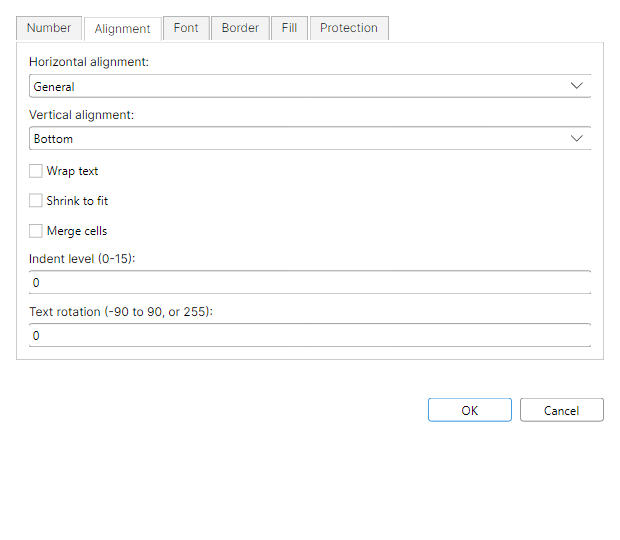
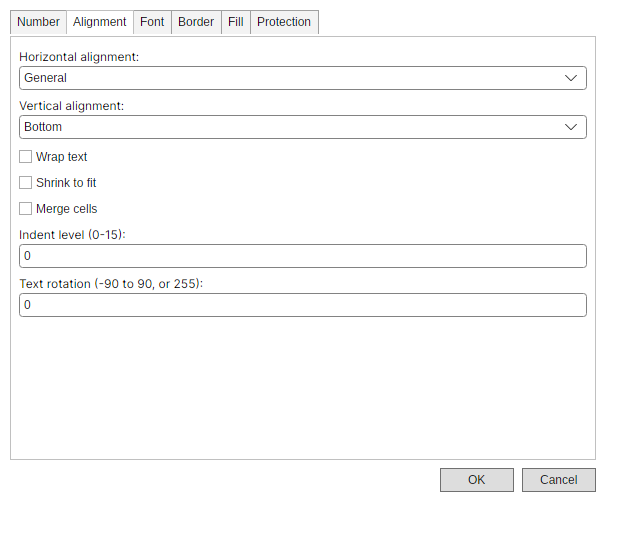
Align FreeX Avalonia Format Cells Alignment tab

diff --git a/src/FreeX.App.Avalonia/MainWindow.cs b/src/FreeX.App.Avalonia/MainWindow.cs
@@ -17372,12 +17372,12 @@ public sealed partial class MainWindow : Window, IFormulaPointModeWorkbookWindow
             "FormatCellsHorizontalAlignmentBox",
             CreateFormatCellsHorizontalAlignmentChoices(),
             currentHorizontalAlignment);
-        horizontalAlignmentBox.Width = 564;
+        horizontalAlignmentBox.HorizontalAlignment = AvaloniaHorizontalAlignment.Stretch;
         var verticalAlignmentBox = CreateFormatCellsComboBox(
             "FormatCellsVerticalAlignmentBox",
             CreateFormatCellsVerticalAlignmentChoices(),
             currentVerticalAlignment);
-        verticalAlignmentBox.Width = 564;
+        verticalAlignmentBox.HorizontalAlignment = AvaloniaHorizontalAlignment.Stretch;
         var wrapTextBox = CreateFormatCellsCheckBox(UiText.Get("FormatCells_WrapText"), "FormatCellsWrapTextBox", _session.IsSelectedRangeStartWrapText);
         var shrinkToFitBox = CreateFormatCellsCheckBox(UiText.Get("FormatCells_ShrinkToFit"), "FormatCellsShrinkToFitBox", currentShrinkToFit);
         var mergeCellsBox = CreateFormatCellsCheckBox(UiText.Get("FormatCells_MergeCells"), "FormatCellsMergeCellsBox", currentMergeCells);
@@ -17385,7 +17385,7 @@ public sealed partial class MainWindow : Window, IFormulaPointModeWorkbookWindow
         {
             Text = currentIndentLevel.ToString(CultureInfo.InvariantCulture),
             MinWidth = 100,
-            Width = 564,
+            HorizontalAlignment = AvaloniaHorizontalAlignment.Stretch,
         };
         AutomationProperties.SetName(indentLevelBox, "Indent level");
         AutomationProperties.SetAutomationId(indentLevelBox, "FormatCellsIndentLevelBox");
@@ -17395,7 +17395,7 @@ public sealed partial class MainWindow : Window, IFormulaPointModeWorkbookWindow
         {
             Text = currentTextRotation.ToString(CultureInfo.InvariantCulture),
             MinWidth = 100,
-            Width = 564,
+            HorizontalAlignment = AvaloniaHorizontalAlignment.Stretch,
         };
         AutomationProperties.SetName(textRotationBox, "Text rotation");
         AutomationProperties.SetAutomationId(textRotationBox, "FormatCellsTextRotationBox");
@@ -18177,23 +18177,59 @@ public sealed partial class MainWindow : Window, IFormulaPointModeWorkbookWindow
             UiText.Get("FormatCells_TabNumber"),
             "FormatCellsNumberTab",
             numberBodyGrid);
+        var alignmentBody = new StackPanel
+        {
+            Margin = new Thickness(FormatCellsDialogAlignmentLayout.ContentInset),
+            Spacing = 0,
+            Children =
+            {
+                CreateFormatCellsField(
+                    UiText.Get("FormatCells_HorizontalAlignment"),
+                    horizontalAlignmentBox,
+                    new Thickness(
+                        0,
+                        FormatCellsDialogAlignmentLayout.LabelTopMargin,
+                        0,
+                        FormatCellsDialogAlignmentLayout.LabelBottomMargin)),
+                CreateFormatCellsField(
+                    UiText.Get("FormatCells_VerticalAlignment"),
+                    verticalAlignmentBox,
+                    new Thickness(
+                        0,
+                        FormatCellsDialogAlignmentLayout.FollowupLabelTopMargin,
+                        0,
+                        FormatCellsDialogAlignmentLayout.LabelBottomMargin)),
+                CreateFormatCellsCheckBoxRow(
+                    wrapTextBox,
+                    FormatCellsDialogAlignmentLayout.CheckBoxTopMargin),
+                CreateFormatCellsCheckBoxRow(
+                    shrinkToFitBox,
+                    FormatCellsDialogAlignmentLayout.FollowupCheckBoxTopMargin),
+                CreateFormatCellsCheckBoxRow(
+                    mergeCellsBox,
+                    FormatCellsDialogAlignmentLayout.FollowupCheckBoxTopMargin),
+                CreateFormatCellsField(
+                    UiText.Get("FormatCells_IndentLevel015"),
+                    indentLevelBox,
+                    new Thickness(
+                        0,
+                        FormatCellsDialogAlignmentLayout.FollowupLabelTopMargin,
+                        0,
+                        FormatCellsDialogAlignmentLayout.LabelBottomMargin)),
+                CreateFormatCellsField(
+                    UiText.Get("FormatCells_TextRotation90To90Or255"),
+                    textRotationBox,
+                    new Thickness(
+                        0,
+                        FormatCellsDialogAlignmentLayout.FollowupLabelTopMargin,
+                        0,
+                        FormatCellsDialogAlignmentLayout.LabelBottomMargin)),
+            },
+        };
         var alignmentTab = CreateFormatCellsTab(
             UiText.Get("FormatCells_TabAlignment"),
             "FormatCellsAlignmentTab",
-            new StackPanel
-            {
-                Spacing = 10,
-                Children =
-                {
-                    CreateFormatCellsField(UiText.Get("FormatCells_HorizontalAlignment"), horizontalAlignmentBox),
-                    CreateFormatCellsField(UiText.Get("FormatCells_VerticalAlignment"), verticalAlignmentBox),
-                    wrapTextBox,
-                    shrinkToFitBox,
-                    mergeCellsBox,
-                    CreateFormatCellsField(UiText.Get("FormatCells_IndentLevel015"), indentLevelBox),
-                    CreateFormatCellsField(UiText.Get("FormatCells_TextRotation90To90Or255"), textRotationBox),
-                },
-            });
+            alignmentBody);
         // Font tab: Windows shows Font NAME + Size as selectable lists side by side. The
         // lists drive the existing name/size text boxes (kept below for free entry + as the
         // value sink the result reads), preserving the FontName/FontSize wiring.
@@ -18705,6 +18741,30 @@ public sealed partial class MainWindow : Window, IFormulaPointModeWorkbookWindow
                 control,
             },
         };
+
+    private static StackPanel CreateFormatCellsField(
+        string label,
+        Control control,
+        Thickness labelMargin) =>
+        new()
+        {
+            Spacing = 0,
+            Children =
+            {
+                new TextBlock
+                {
+                    Text = StripDisplayMnemonic(label),
+                    Margin = labelMargin,
+                },
+                control,
+            },
+        };
+
+    private static CheckBox CreateFormatCellsCheckBoxRow(CheckBox checkBox, double topMargin)
+    {
+        checkBox.Margin = new Thickness(0, topMargin, 0, 0);
+        return checkBox;
+    }
 
     private static ComboBox CreateFormatCellsComboBox<T>(
         string automationId,

diff --git a/tests/FreeX.App.Avalonia.Tests/ParityCaptureTests.cs b/tests/FreeX.App.Avalonia.Tests/ParityCaptureTests.cs
@@ -487,6 +487,54 @@ public sealed class ParityCaptureTests
     }
 
     [Fact]
+    public async Task CaptureParitySurfaces_CapturesFormatCellsAlignmentTabWithoutRunningInteractionContract()
+    {
+        var outputDirectory = Path.Combine(
+            Path.GetTempPath(),
+            "freex-parity-capture-format-cells-alignment-" + Guid.NewGuid().ToString("N"));
+
+        try
+        {
+            await Session.Dispatch(async () =>
+            {
+                var window = new MainWindow([]);
+                window.Show();
+                window.Measure(new global::Avalonia.Size(1120, 720));
+                window.Arrange(new global::Avalonia.Rect(0, 0, 1120, 720));
+                window.UpdateLayout();
+
+                var results = await window.CaptureParitySurfacesAsync(
+                    outputDirectory,
+                    targetSurfaceId: "dialog.FormatCells.Alignment");
+
+                results.Should().HaveCount(7);
+                results.Should().OnlyContain(
+                    result => result.Captured,
+                    string.Join(Environment.NewLine, results.Select(result => $"{result.Id}: {result.Note}")));
+                results.Select(result => result.Id).Should().Equal(
+                    "dialog.FormatCells",
+                    "dialog.FormatCells.Number",
+                    "dialog.FormatCells.Alignment",
+                    "dialog.FormatCells.Font",
+                    "dialog.FormatCells.Border",
+                    "dialog.FormatCells.Fill",
+                    "dialog.FormatCells.Protection");
+                results.Should().Contain(result => result.Id == "dialog.FormatCells.Alignment");
+                foreach (var result in results)
+                    AssertCapturedPng(outputDirectory, result);
+                window.DialogInteractionContracts.Should().NotContainKey("dialog.FormatCells",
+                    "visual capture must not run the separate keyboard interaction contract");
+
+                window.Close();
+            }, CancellationToken.None);
+        }
+        finally
+        {
+            TryDeleteDirectory(outputDirectory);
+        }
+    }
+
+    [Fact]
     public async Task CaptureParitySurfaces_CapturesGoToSpecialAtFixedSizeWithoutClipping()
     {
         var outputDirectory = Path.Combine(

diff --git a/src/FreeX.App.Services/FormatCellsDialogPlanner.cs b/src/FreeX.App.Services/FormatCellsDialogPlanner.cs
@@ -122,6 +122,21 @@ public sealed record FormatCellsDialogResult(
     FormatCellsDialogBorderSelection BorderSelection,
     bool? MergeCells);
 
+/// <summary>
+/// Shared WPF-authority measurements for the Format Cells Alignment tab.
+/// Hosts consume these values instead of inventing platform-specific vertical spacing.
+/// </summary>
+public static class FormatCellsDialogAlignmentLayout
+{
+    public const double ContentInset = 8;
+    public const double LabelTopMargin = 4;
+    public const double LabelBottomMargin = 2;
+    public const double FollowupLabelTopMargin = 8;
+    public const double CheckBoxTopMargin = 8;
+    public const double FollowupCheckBoxTopMargin = 6;
+    public const double ControlHeight = 24;
+}
+
 public sealed record FormatCellsDialogFillPatternChoice(CellFillPatternStyle Style, string ResourceKey);
 
 public sealed record FormatCellsDialogFillPatternDisplayChoice(CellFillPatternStyle Style, string Label);

diff --git a/tests/FreeX.App.Services.Tests/FormatCellsDialogPlannerTests.cs b/tests/FreeX.App.Services.Tests/FormatCellsDialogPlannerTests.cs
@@ -9,6 +9,18 @@ namespace FreeX.App.Services.Tests;
 public sealed class FormatCellsDialogPlannerTests
 {
     [Fact]
+    public void AlignmentLayout_UsesWpfDialogSpacingContract()
+    {
+        FormatCellsDialogAlignmentLayout.ContentInset.Should().Be(8);
+        FormatCellsDialogAlignmentLayout.LabelTopMargin.Should().Be(4);
+        FormatCellsDialogAlignmentLayout.LabelBottomMargin.Should().Be(2);
+        FormatCellsDialogAlignmentLayout.FollowupLabelTopMargin.Should().Be(8);
+        FormatCellsDialogAlignmentLayout.CheckBoxTopMargin.Should().Be(8);
+        FormatCellsDialogAlignmentLayout.FollowupCheckBoxTopMargin.Should().Be(6);
+        FormatCellsDialogAlignmentLayout.ControlHeight.Should().Be(24);
+    }
+
+    [Fact]
     public void TryCreateResult_BuildsStyleDiffBorderSelectionAndMergeDecision()
     {
         var input = ValidInput() with

diff --git a/docs/parity/avalonia-parity-wave121-freex-formatcells-alignment-20260803.md b/docs/parity/avalonia-parity-wave121-freex-formatcells-alignment-20260803.md
@@ -1,0 +1,42 @@
+# Avalonia/WPF Parity Wave 121: FreeX Format Cells Alignment
+
+Date: 2026-08-03
+
+## Scope
+
+This slice aligns the Avalonia Format Cells Alignment tab with the WPF authority
+while keeping the shared formatting behavior and existing control automation IDs.
+
+## Implementation
+
+- Added `FormatCellsDialogAlignmentLayout` to the shared
+  `FormatCellsDialogPlanner` service with the WPF Alignment-tab inset, label,
+  checkbox, and control-height measurements.
+- Updated the Avalonia Alignment tab to consume those shared measurements,
+  preserve the existing checkbox instances, stretch both alignment dropdowns,
+  and stretch the indent and rotation inputs across the content pane.
+- Left the other Format Cells tabs on their existing layout helper path.
+
+## Evidence
+
+- WPF: fresh current-source `FreeX.App.Host --parity-capture --parity-capture-target dialog.FormatCells`.
+- Avalonia: fresh current-source `linux-x64` publish, Ubuntu 24.04 Docker/Xvfb,
+  `--parity-capture --parity-capture-surface dialog.FormatCells.Alignment`.
+- Promoted pair:
+  `docs/parity/dialog-visual-assets/wpf-capture/dialog.FormatCells.Alignment.png`
+  and
+  `docs/parity/dialog-visual-assets/avalonia-capture/dialog.FormatCells.Alignment.png`.
+- Both frames are `620x540` at 96 DPI, nonblank, and the focused comparison is
+  `2.5714%` mean pixel difference with no hard regression.
+- The raw seven-surface capture and focused comparison are retained under
+  `artifacts/wave121-freex-alignment/`.
+
+## Verification
+
+- `FormatCellsDialogPlannerTests`: 5 passed.
+- `CaptureParitySurfaces_CapturesFormatCellsAlignmentTabWithoutRunningInteractionContract`: 1 passed.
+- `dotnet build src/FreeX.App.Host/FreeX.App.Host.csproj --configuration Release --no-restore`: passed, 0 warnings, 0 errors.
+- `dotnet build src/FreeX.App.Avalonia/FreeX.App.Avalonia.csproj --configuration Release --no-restore`: passed, 0 warnings, 0 errors.
+
+The cross-app/global parity summaries were intentionally not regenerated in this
+worker; integration owns those generated documents.
